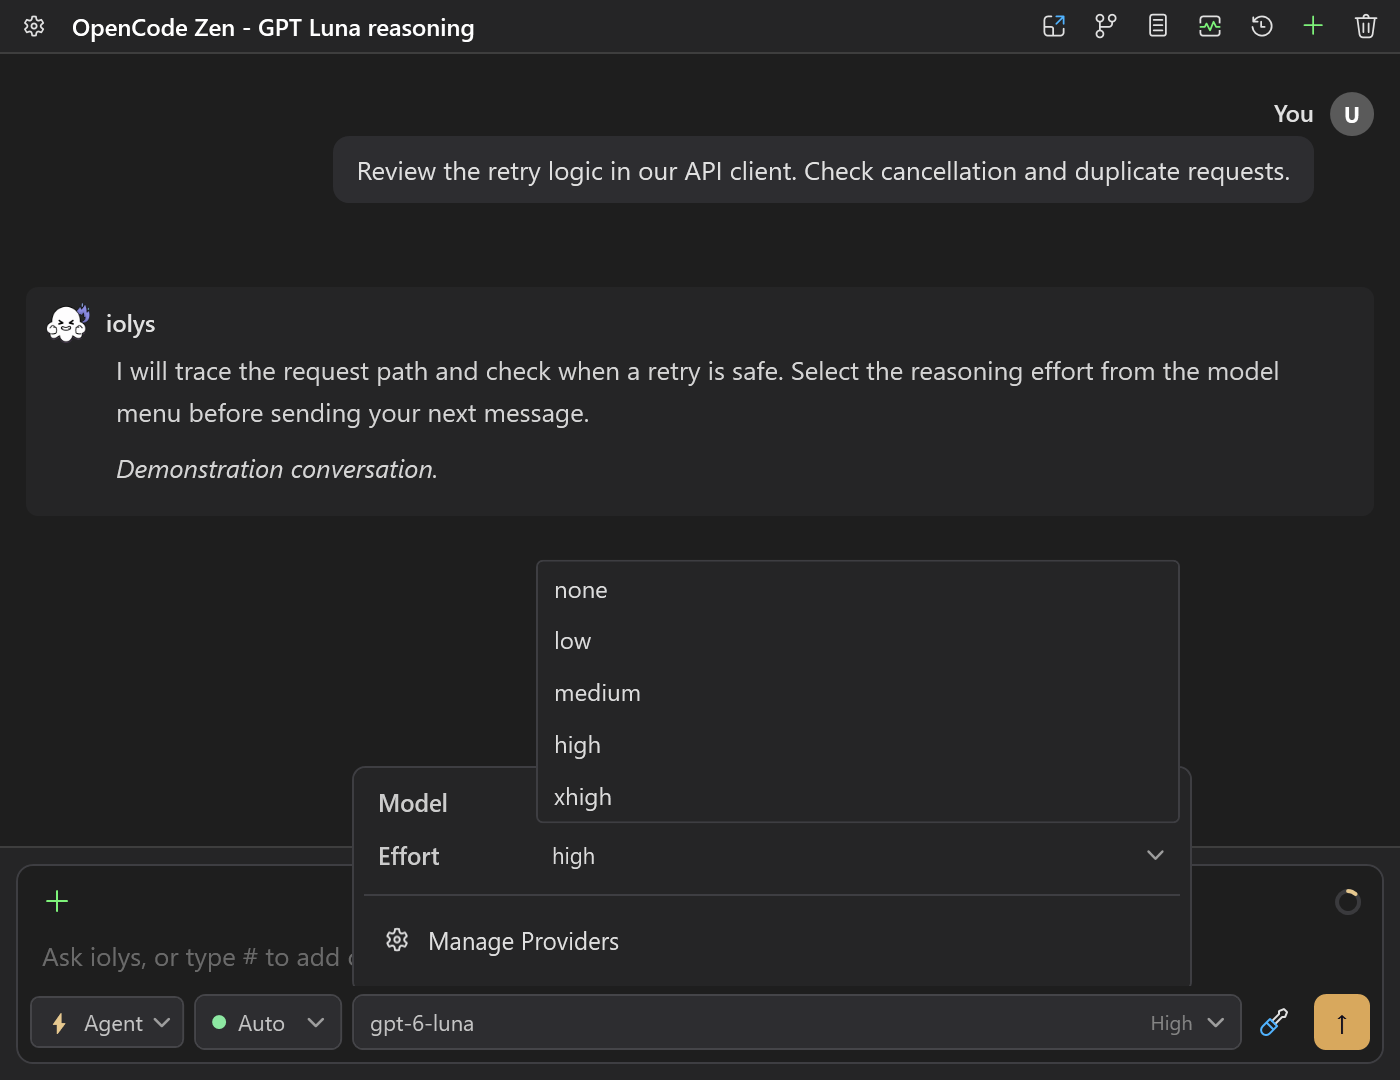
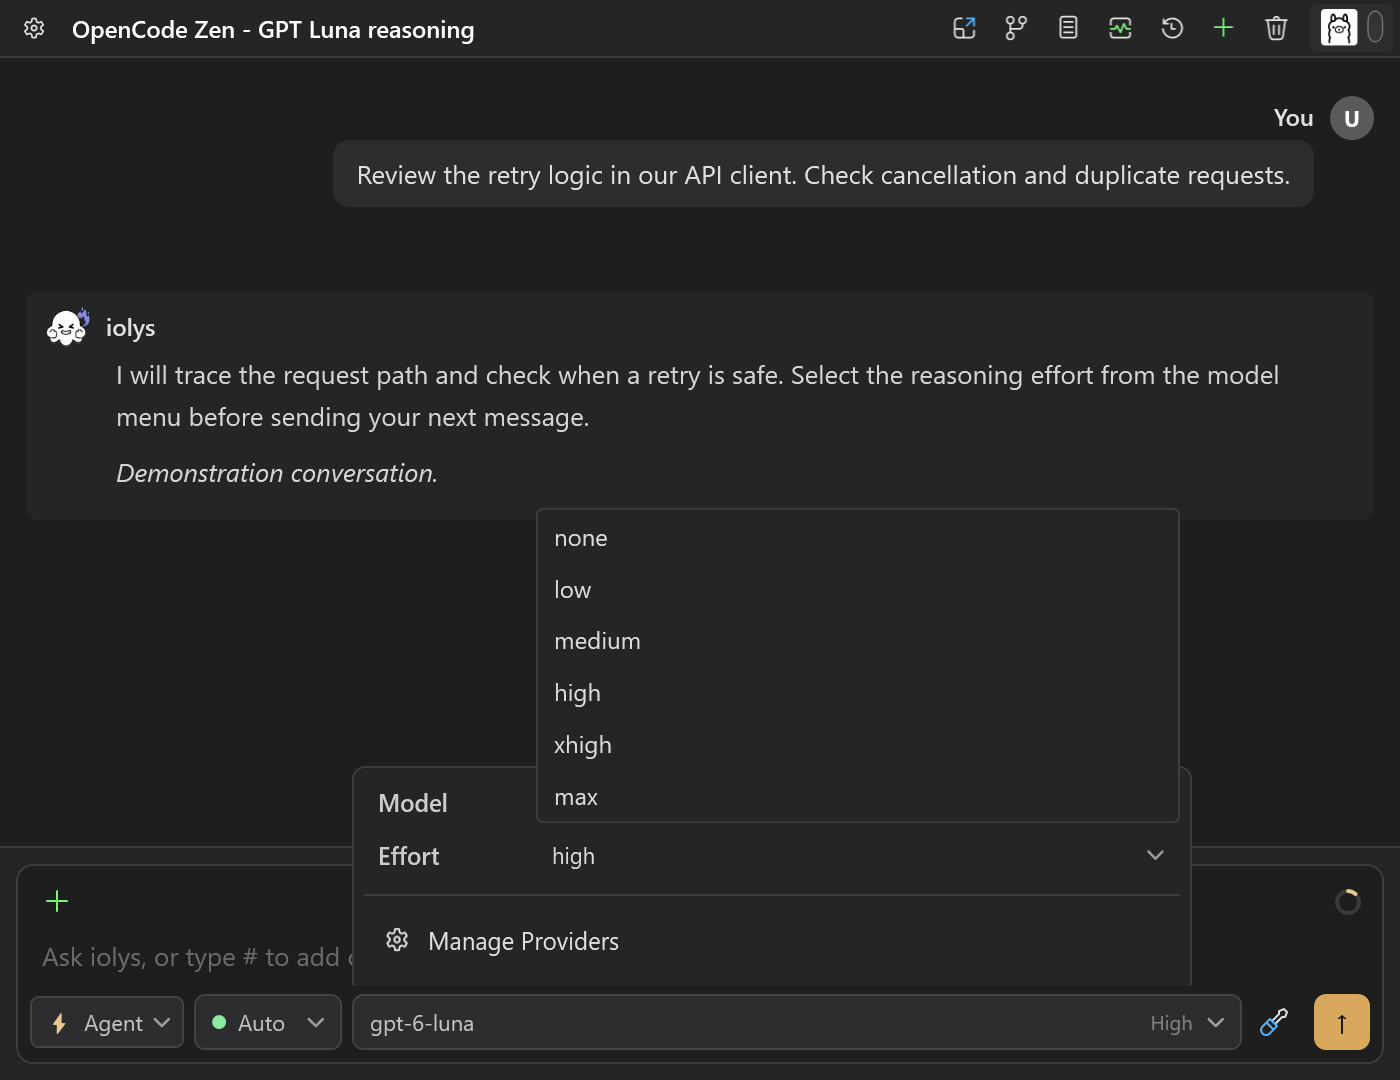
Document OpenCode reasoning levels, usage, and tool boundaries

diff --git a/providers/opencode-zen-visual-studio-2026.md b/providers/opencode-zen-visual-studio-2026.md
@@ -1,6 +1,6 @@
 ---
 title: OpenCode Zen for C# in Visual Studio 2026
-description: Use OpenCode Zen for C# projects in Visual Studio 2026 with iolys. Connect your API key, choose coding models, and inspect usage and available cost estimates.
+description: Use OpenCode Zen in Visual Studio 2026 with iolys. Set reasoning levels, use iolys and MCP tools, and inspect context usage and available cost estimates.
 ---
 
 <a id="opencode-zen"></a>
@@ -29,19 +29,68 @@ The endpoint is fixed at `https://opencode.ai/zen/v1`. No OpenCode CLI is requir
 
 The catalog shows tool, image, reasoning, and context capabilities when known. Image input requires a Vision model. Reasoning controls appear only for verified model profiles; a Thinking badge does not guarantee adjustable effort. Without an explicit selection, iolys leaves the provider's reasoning default in place.
 
-Tool-capable models use the same iolys and MCP tools, skills, agent selection, permission checks, cancellation, and review workflow as other providers. Zen does not automatically enable provider-native web search or code execution. Gemini uses its native streaming protocol and preserves thought signatures during the active conversation. The Gemini loop is limited to 50 model calls per turn.
+### Choose a reasoning level
+
+1. Open the **chat model picker** beside your prompt and select a Zen model.
+2. Open **Effort**, when available, and choose a supported level.
+3. Send your next message with that configuration.
+
+Use a lower level for a focused edit or a higher one to investigate a difficult bug. Higher effort can increase response time and token use. The connection panel manages your credentials and model shortlist; reasoning is selected in Chat.
+
+![OpenCode Zen model picker with GPT-6 Luna and None, Low, Medium, High, Xhigh, and Max effort choices](../assets/docs/provider/opencode_zen/img/reasoning-level.png)
+
+*Zen reasoning selector rendered from real iolys controls with demonstration data. This GPT-6 Luna example includes Max; Go offers a different set of choices.*
+
+Examples checked against the integration on **October 21, 2026**:
+
+| Zen model | Effort choices |
+| --- | --- |
+| GPT-6 Luna | None, Low, Medium, High, Xhigh, Max |
+| Claude Sonnet 4.6, Claude Opus 4.6 | Low, Medium, High, Max |
+| Gemini 3.1 Pro | Low, Medium, High |
+| DeepSeek V4 Pro | High, Max |
+| DeepSeek V4 Flash | Low, High, Max |
+| GLM-5.2 | High, Max |
+
+These are examples of supported profiles, not a fixed catalog. Other models can have different choices or no selector. Leave effort unset to keep the provider's default. Select only the values shown for the current model and connection; do not carry Go's effort list over to Zen. See [Reasoning and speed](reasoning.md).
+
+Gemini uses its native streaming protocol and preserves thought signatures during the active conversation. The Gemini loop is limited to 50 model calls per turn.
 
 The integration selects Responses, Chat Completions, Messages, or native Gemini from an exact verified model table. An unrecognized model is omitted until its route is verified. Free-tier models, including Big Pickle and `-free` variants, are excluded because their access is restricted to the OpenCode client. Adding Zen credit does not make those variants available in iolys. System One/Jev structured decisions are outside the chat scope. Refresh the catalog if an existing selection disappears, then explicitly select another model.
 
+## Use tools with your solution
+
+Choose a model reporting **Tools** support. Open **Tools and Skills** to enable iolys tools for reading and searching files, inspecting diagnostics, changing code, and running builds and selected tests. Connect [MCP servers](../customization/mcp.md) for tools from your services, and reuse [custom agents](../customization/agents.md) and [skills](../customization/skills.md) for your workflows.
+
+For example, ask: “Inspect this API client, add cancellation support, and run the relevant tests.” Review tool activity and code changes in the conversation. Calls follow the selected agent, chat mode, and [iolys permissions](../customization/permissions.md), and active work can be cancelled from Chat.
+
 ![OpenCode Zen conversation and tool activity with an estimated cost](../assets/docs/provider/opencode_zen/img/conversation-tools.png)
 
+*Demonstration of completed iolys read/edit tools, a C# change, and an illustrative USD cost beside the answer. No provider request was billed and no files were changed for this capture.*
+
+### What about native OpenCode tools?
+
+Zen connects models to **iolys and configured MCP tools**. It does not import the OpenCode CLI's built-in shell, file tools, plugins, or permission settings. Provider-native web search and code execution are not enabled by this connection.
+
+OpenCode documents a separate [hosted web search](https://opencode.ai/v2/docs/console/websearch/) service for its connected client. Enabling that service in OpenCode does not add it to the iolys Zen tool picker. See [Tools and integrations](../customization/tools.md#opencode-go-and-zen) for the distinction between iolys, native, and MCP tools.
+
 ## Token usage and estimated costs
+
+The conversation shows available turn estimates beside the response, as illustrated above. **Session statistics** provides available accumulated estimates. These amounts describe work in iolys; they are separate from an account credit balance.
 
 Returned token usage is collected independently of account quotas and prices. When valid pricing exists for the exact model in the public **OpenCode Zen** catalog, iolys estimates each call's USD cost, including applicable cache rates and context tiers. It never substitutes direct Anthropic or Google prices. Output reasoning tokens are counted once; streaming usage snapshots are not added together.
 
 Turn and session amounts are **sums of available cost estimates**. Calls with missing usage, missing rates for a reported cache bucket, or an unsupported pricing tier are excluded from the amount. A missing estimate does not mean the request was free. Provider fees, taxes, BYOK terms, and billing adjustments are not included. Check the OpenCode Console for authoritative charges.
 
 Zen has no account Usage view in iolys: its public API does not document a balance or quota endpoint for this integration. This is separate from the token usage returned by model calls. Go's five-hour, weekly, and monthly allowance display does not apply to Zen.
+
+## Inspect conversation context
+
+Open **Context window usage** beside the composer to inspect the selected model's input usage. Expand the categories for messages, tool definitions, system instructions, IDE state, and files.
+
+![OpenCode Zen context window with an input-token total and expanded system and user-context categories](../assets/docs/provider/opencode_zen/img/context-window.png)
+
+*Demonstration context usage. The total can use provider-reported input tokens; category counts remain local estimates.*
 
 Context usage uses input tokens from the **last model call**, with a locally estimated category breakdown. It does not sum the prompts of every tool-loop call. Unknown context sizes remain unavailable. Output is capped at the smaller of the known model output limit and 32,000 tokens per call, or 32,000 when unavailable.
 
@@ -55,4 +104,4 @@ Active conversations preserve transport-specific tool and reasoning state. Reloa
 - **Missing model:** refresh the catalog; free-tier models (including Big Pickle), unknown protocols, and System One models are excluded. Existing missing selections require a new explicit selection.
 - **Missing estimate:** usage or the required Zen prices may be unavailable. Public metadata is cached for 24 hours; failed refreshes retry after 15 minutes. Metadata requests carry no key or conversation identifier.
 
-Sources checked October 4, 2026: [Zen documentation](https://opencode.ai/docs/zen/), [Zen catalog](https://opencode.ai/zen/v1/models), [models.dev](https://models.dev/api.json), and [OpenCode routing/transformations](https://github.com/anomalyco/opencode/tree/907b3bc518fa48e90e8ec24dd327d13eee71c36c/packages).
+Integration behavior and reasoning profiles reviewed October 21, 2026. Provider sources originally checked October 4, 2026: [Zen documentation](https://opencode.ai/docs/zen/), [Zen catalog](https://opencode.ai/zen/v1/models), [models.dev](https://models.dev/api.json), and [OpenCode routing/transformations](https://github.com/anomalyco/opencode/tree/907b3bc518fa48e90e8ec24dd327d13eee71c36c/packages).

diff --git a/providers/opencode-go-visual-studio-2026.md b/providers/opencode-go-visual-studio-2026.md
@@ -1,6 +1,6 @@
 ---
 title: C# development with OpenCode Go in Visual Studio 2026
-description: Bring your OpenCode Go subscription to C# development in Visual Studio 2026 with iolys. Connect an API key, choose models, and inspect account usage.
+description: Use OpenCode Go in Visual Studio 2026 with iolys. Set model-specific reasoning levels, use iolys and MCP tools, and inspect subscription usage and resets.
 ---
 
 <a id="opencode-go"></a>
@@ -34,21 +34,65 @@ The provider panel lists discovered models, their known context windows, and cap
 
 ![OpenCode Go model catalog with model selection and capability badges](../assets/docs/provider/opencode_go/img/manage-models.png)
 
+*Example model shortlist and capability badges. Refresh the catalog for your account's current choices.*
+
 Use **Tools** for models that can perform development actions and **Vision** for image input. **Thinking** describes reasoning support; it does not necessarily provide an adjustable effort selector.
 
 Go's model endpoint takes priority for reported limits and capabilities. iolys supplements it with public models.dev metadata and bundled fallbacks. The public metadata request carries neither your Go key nor the conversation ID. A temporary metadata failure does not by itself prevent connecting to Go. Consult the refreshed catalog instead of treating an illustrated model list as permanent.
 
-## Set reasoning and use tools
+<a id="set-reasoning-and-use-tools"></a>
 
-Select reasoning effort in the **chat model picker**, rather than the connection panel. Options depend on the chosen model: some expose several effort levels, some offer `none` and `thinking`, and others have no selector. Use the values shown for that model. Where `none` is supported, it explicitly disables thinking; a missing selector leaves the model's server-side reasoning behavior in place.
+## Set the reasoning level
 
-Tool-capable models can use shared [iolys tools](../customization/tools.md), [MCP servers](../customization/mcp.md), and [skills](../customization/skills.md). Their availability still depends on the selected agent, mode, and [permissions](../customization/permissions.md). Attach images only to a model reporting Vision support. See [Files, images, and context](../guide/context.md) for the attachment workflow.
+1. Open the **chat model picker** beside your prompt.
+2. Choose an OpenCode Go model.
+3. Open **Effort** and select one of that model's available levels.
+4. Send your next message.
+
+Use a lower level for a focused change or a higher one for a deeper investigation. Higher effort can increase response time and token use. Model selection and effort belong in the chat picker; the connection panel manages your key and model shortlist.
+
+![OpenCode Go chat model picker with GPT-6 Luna and the None, Low, Medium, High, and Xhigh effort options](../assets/docs/provider/opencode_go/img/reasoning-level.png)
+
+*Go reasoning selector rendered from the product controls with demonstration data. Available choices follow the selected model.*
+
+These integration profiles were checked on **October 21, 2026**. They describe effort choices, not a promise that every model is available on your account.
+
+| Go model | Effort choices | Initial selection |
+| --- | --- | --- |
+| GPT-6 Luna, GPT-5.6 Luna | None, Low, Medium, High, Xhigh | High |
+| DeepSeek V4 | Low, Medium, High, Max | High |
+| GLM-5.2 | High, Max | High |
+| MiniMax M3 | None, Thinking | Thinking |
+
+Where **None** is supported, it explicitly disables thinking. Models without a selector keep their server-side reasoning behavior. A Thinking badge alone does not guarantee adjustable effort. Go and Zen can expose different choices for the same model; use the selected connection's menu. See [Reasoning and speed](reasoning.md).
+
+## Use tools with your solution
+
+Choose a model reporting **Tools** support, then open **Tools and Skills** to enable the capabilities your task needs. Tool-capable Go models can use:
+
+- **iolys tools** to read and search files, inspect IDE diagnostics, edit code, build, and run selected tests.
+- **MCP tools** from the servers you have connected and enabled.
+- **Custom agents and skills** to reuse your instructions and workflows.
+
+For example, ask: “Inspect this API client, add cancellation support, and run the relevant tests.” Review the tool activity and resulting changes in the conversation. Availability depends on the selected model, agent, mode, and [permissions](../customization/permissions.md); you can cancel active work from Chat.
+
+![OpenCode Go conversation showing completed file-read and edit tools and a C# CancellationToken change](../assets/docs/provider/opencode_go/img/conversation-tools.png)
+
+*Demonstration of iolys tool activity with Go. This capture made no provider request and changed no files.*
+
+### What about native OpenCode tools?
+
+This API-key connection uses **iolys and configured MCP tools**. It does not import the OpenCode CLI's built-in shell, file tools, plugins, or permission settings. OpenCode's separately documented [hosted web search](https://opencode.ai/v2/docs/console/websearch/) is not enabled by connecting your Go key in iolys.
+
+See [Tools and integrations](../customization/tools.md#opencode-go-and-zen), [MCP servers](../customization/mcp.md), and [skills](../customization/skills.md) for configuration. Attach images only to a model reporting Vision support; follow [Files, images, and context](../guide/context.md).
 
 ## Read context and output limits
 
 **Context window usage** uses the input-token count reported by the last model call when available, with a locally estimated breakdown. Otherwise, it estimates the active conversation. Unknown model context limits remain unavailable rather than receiving a default size. OpenAI-protocol estimates exclude image and encrypted-reasoning tokens.
 
 ![OpenCode Go context window with an estimated category breakdown](../assets/docs/provider/opencode_go/img/context-window.png)
+
+*Example input-token total and locally estimated breakdown into messages, tools, IDE state, and files.*
 
 Each model call has an automatic output ceiling: the smaller of the model's models.dev output limit and **32,000 tokens**. Missing or invalid output limits fall back to 32,000. This ceiling is independent of reasoning effort and applies to each model call, not the whole conversation.
 
@@ -57,6 +101,14 @@ Each model call has an automatic output ceiling: the smaller of the model's mode
 Open **Usage** in Chat to see reported **5-hour**, **weekly**, and **monthly** consumption, remaining percentages, reset dates, and reached-limit warnings.
 
 ![OpenCode Go account usage showing five-hour, weekly, and monthly windows](../assets/docs/provider/opencode_go/img/usage.png)
+
+*Example account consumption, remaining percentages, and reset dates. These values are demonstration data.*
+
+When a limit is reached, the warning identifies the affected window. Read that row's reset date to see which allowance needs to renew.
+
+![OpenCode Go Usage warning that the five-hour allowance is fully used, with weekly and monthly counters below](../assets/docs/provider/opencode_go/img/usage-limit.png)
+
+*Illustrative reached five-hour limit. Weekly and monthly counters remain visible; this is not a live account.*
 
 These counters cover the account, including requests from other clients. Missing counters mean unavailable data, not zero usage. The endpoint does not identify the Go/Go Plus plan or return a monetary balance, and iolys does not provide a Go per-turn dollar estimate. Context capacity and subscription quota measure different things; see [Usage and session statistics](../guide/usage.md).
 

diff --git a/guide/usage.md b/guide/usage.md
@@ -64,6 +64,16 @@ Reasoning effort and optional speed tiers can change resource use. Choose these 
 
 Some tools contribute a separate request fee to turn and conversation estimates. [DeepSeek Search and Fetch](../providers/deepseek-visual-studio-2026.md#check-balance-and-costs) add an estimate for successful non-empty responses alongside available model token costs, without adding tokens or model calls. Check the provider's billing record for actual charges and promotions.
 
+## OpenCode Go and Zen at a glance
+
+| Information | OpenCode Go | OpenCode Zen |
+| --- | --- | --- |
+| Account Usage window | Reported five-hour, weekly, and monthly consumption, remaining percentages, reset dates, and reached limits. Includes other clients using the account. | No integrated account balance or quota window. Check the OpenCode Console. |
+| Turn and session dollar estimates | No Go per-turn dollar estimate. | Sums of available estimates from returned tokens and exact Zen prices; calls without sufficient data are excluded. |
+| Context window | Latest reported input-token total when available, otherwise an estimate; category breakdown estimated locally. | Latest reported input-token total when available, otherwise an estimate; category breakdown estimated locally. |
+
+See the illustrated [Go usage window and limit warning](../providers/opencode-go-visual-studio-2026.md#check-account-usage) and [Zen token and cost guide](../providers/opencode-zen-visual-studio-2026.md#token-usage-and-estimated-costs). Unknown values stay unavailable; a missing estimate does not mean a request was free.
+
 ## OpenCode Zen
 
 [Zen](../providers/opencode-zen-visual-studio-2026.md) collects the token usage returned by each call. Where exact Zen prices and the necessary token buckets are known, the turn and session indicators show the sum of available cost estimates. Missing usage or required rates exclude that call from the monetary amount; an absent amount is not evidence of a free request. Context uses the last input count. The public account API does not provide an integrated Zen balance/quota view; check the OpenCode Console for charges and credit.

diff --git a/SOURCES.md b/SOURCES.md
@@ -43,3 +43,11 @@ The GIF at `assets/diagrams/agent-creator-workflow.gif` is an illustrated exampl
 - External `run_cli` working directories and approval scope: [PR #270](https://github.com/iolys-company/iolys/pull/270).
 - Managed commit amendment and remote branch deletion: [PR #273](https://github.com/iolys-company/iolys/pull/273) and [PR #268](https://github.com/iolys-company/iolys/pull/268).
 - Compact tool-call hover previews: the separate tooltip change in [PR #278](https://github.com/iolys-company/iolys/pull/278).
+
+## OpenCode reasoning, usage, and tools (October 21, 2026)
+
+- Effort choices and defaults checked against `src/Iolys.Core/Providers/OpenCode/OpenCodeModels.cs` and `OpenCodeZenModels.cs` in `vs_assistant`. The guides show examples of integration profiles, not a permanent available-model catalog.
+- Account counters, context, tool forwarding, and conditional costs checked against `OpenCodeProvider.cs`, `OpenCodeOpenAiProvider.cs`, `OpenCodeZenPricing.cs`, and `docs/provider/{opencode_go,opencode_zen}/README.md`.
+- Go's `conversation-tools.png` and `usage-limit.png` are unchanged copies of the extension's WPF demonstration captures. Existing `reasoning-level.png` is now displayed in the Go guide alongside context and usage captures.
+- Zen's updated `reasoning-level.png` comes from `Iolys.PublicWebSite/src/Iolys.PublicWebsite/wwwroot/img/providers/opencode-zen/`. It was rendered from real WPF controls using the website's `tools/opencode-zen/render-reasoning.ps1`, with the six GPT-6 Luna choices verified against the implementation. The existing Zen context capture is now displayed in the guide. All captures use demonstration data and make no live account, provider, or billing claim.
+- Native-tool boundaries checked against the extension integration and the official [OpenCode built-in tools](https://opencode.ai/docs/tools/) and [hosted web search](https://opencode.ai/v2/docs/console/websearch/) documentation. These upstream services are not enabled by the iolys Go/Zen API-key connections.

diff --git a/providers/reasoning.md b/providers/reasoning.md
@@ -33,7 +33,8 @@ The selection belongs to the conversation. When switching to a model without eff
 | Anthropic API | Sends effort only when supported by the selected model. |
 | [DeepSeek](deepseek-visual-studio-2026.md) | Offers the effort choices supported by the current integration's catalog. |
 | [OpenRouter](openrouter-visual-studio-2026.md) | Uses reasoning metadata from its model catalog; not all models offer a selector. |
-| [OpenCode Go](opencode-go-visual-studio-2026.md) | Uses model-specific effort options. |
+| [OpenCode Go](opencode-go-visual-studio-2026.md#set-the-reasoning-level) | Model-specific choices; GPT Luna, DeepSeek V4, GLM-5.2, and MiniMax M3 have different menus. |
+| [OpenCode Zen](opencode-zen-visual-studio-2026.md#choose-a-reasoning-level) | Verified model profiles expose their supported levels. Choices can differ from Go; leaving effort unset keeps the provider default. |
 | [Databricks](databricks-visual-studio-2026.md) | Depends on the endpoint's model profile and transport. |
 | [Ollama](ollama-visual-studio-2026.md#set-reasoning-effort) | Uses named levels reported by the model. Thinking-capable GPT-OSS models also offer low, medium, and high on older Ollama versions without level metadata. |
 
@@ -63,4 +64,4 @@ See [Usage and costs](../guide/usage.md) to interpret the resulting token, quota
 
 ## OpenCode Zen
 
-[Zen](opencode-zen-visual-studio-2026.md) shows reasoning effort only for verified model profiles. Options can differ from the same model on Go because its API route differs. Leave effort unset to keep the provider default. Gemini uses native thinking configuration; adaptive Claude uses its supported effort options.
+[Zen](opencode-zen-visual-studio-2026.md#choose-a-reasoning-level) includes an illustrated selector and example effort lists. For example, GPT-6 Luna offers Max on Zen, while Go stops at Xhigh. Gemini uses native thinking configuration; adaptive Claude uses its supported effort options. Use the selected connection's current menu.

diff --git a/customization/tools.md b/customization/tools.md
@@ -33,6 +33,14 @@ The [tool reference](../reference/tools.md) lists built-in identifiers. Provider
 
 Some providers also add function tools to their own group. With DeepSeek selected, expand **DeepSeek Web Tools** to enable `deepseek_search` and `deepseek_fetch`. These work on Flash and Pro in Agent and Plan, separately from native model tools. See [DeepSeek web access](../providers/deepseek-visual-studio-2026.md#search-the-web-and-read-pages).
 
+## OpenCode Go and Zen
+
+Both connections use **iolys tools and the MCP servers you configure**, when the selected model supports tool calling. Enable the needed tools under **Tools and Skills**, then choose your agent and permission mode. You can inspect the solution, change files, build, and run tests through the same iolys workflow.
+
+An OpenCode API key does not import the OpenCode CLI's built-in shell, file tools, plugins, or permission configuration. The iolys connections do not enable OpenCode-hosted web search or provider-native code execution. OpenCode's [hosted web search](https://opencode.ai/v2/docs/console/websearch/) is a separate service for its connected client.
+
+For captures and practical examples, see [Go tools](../providers/opencode-go-visual-studio-2026.md#use-tools-with-your-solution) and [Zen tools](../providers/opencode-zen-visual-studio-2026.md#use-tools-with-your-solution). Model reasoning support and tool calling are separate capabilities; a Thinking badge does not itself enable tools.
+
 ## Work with command integrations
 
 **Run CLI commands** executes supported programs through managed integrations. Expand **Integrations** to check availability and configure read/write access. Available integrations include Git, GitHub, text utilities, and supported .NET operations; the picker shows **Setup required** when a dependency is missing.
